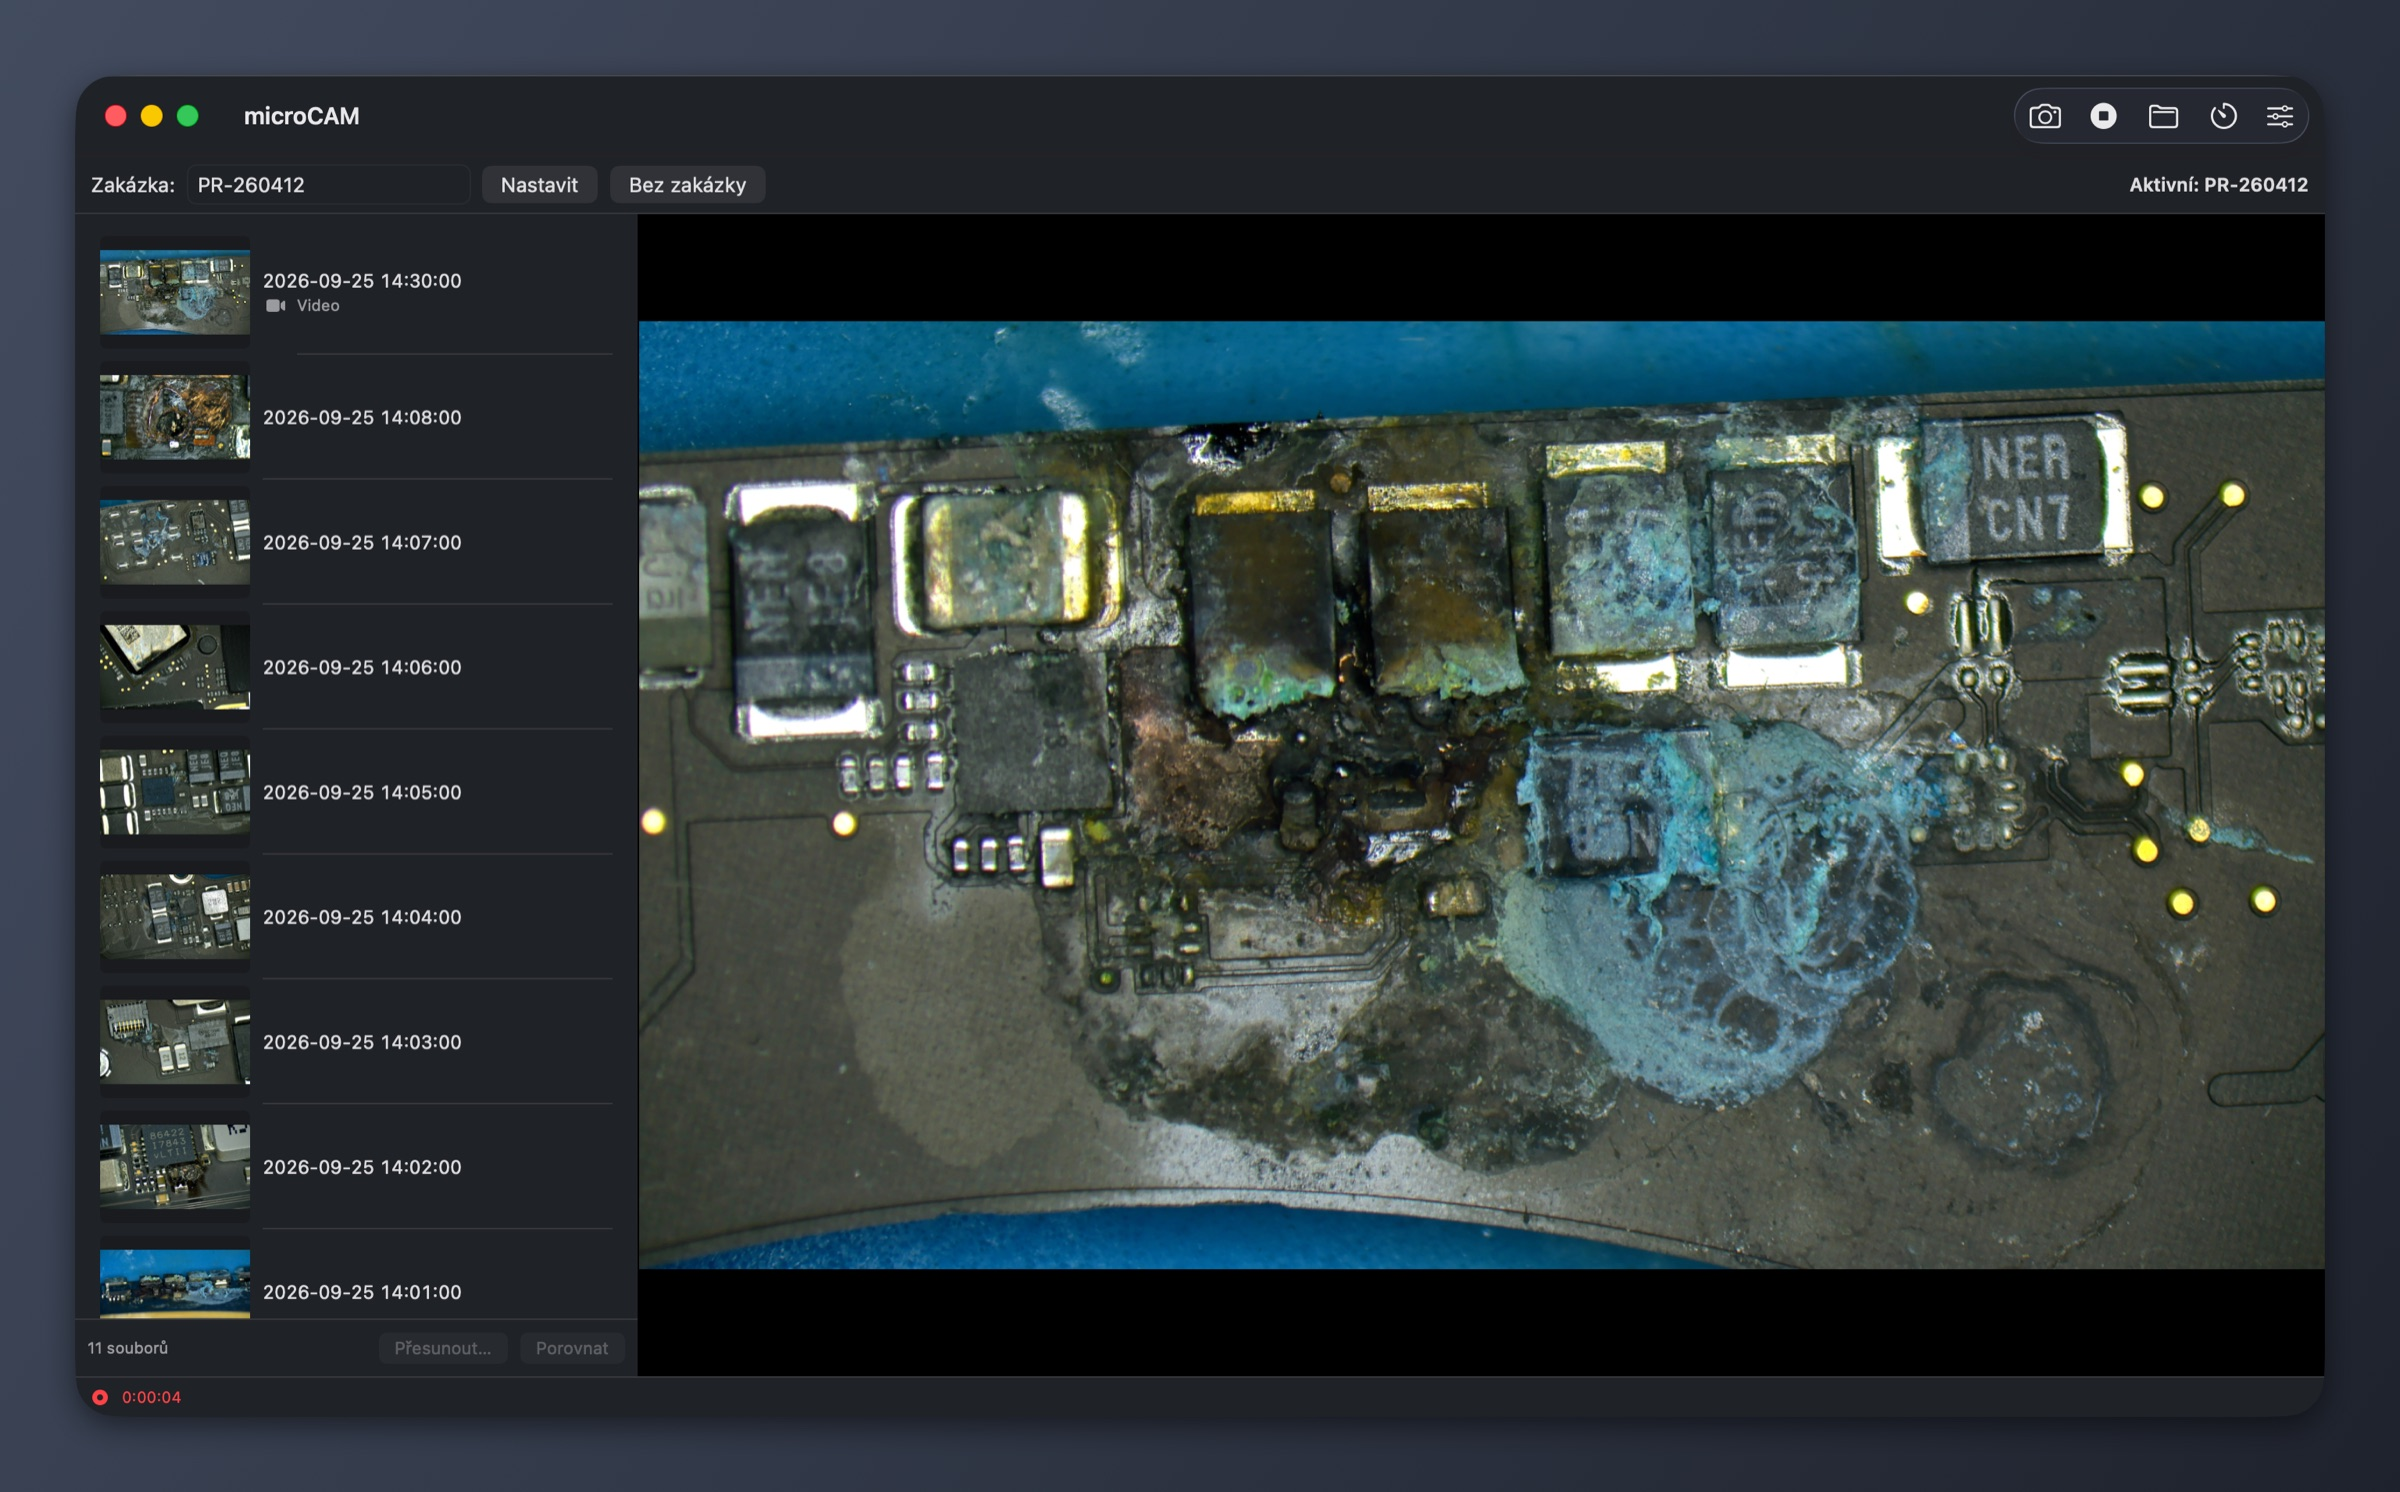
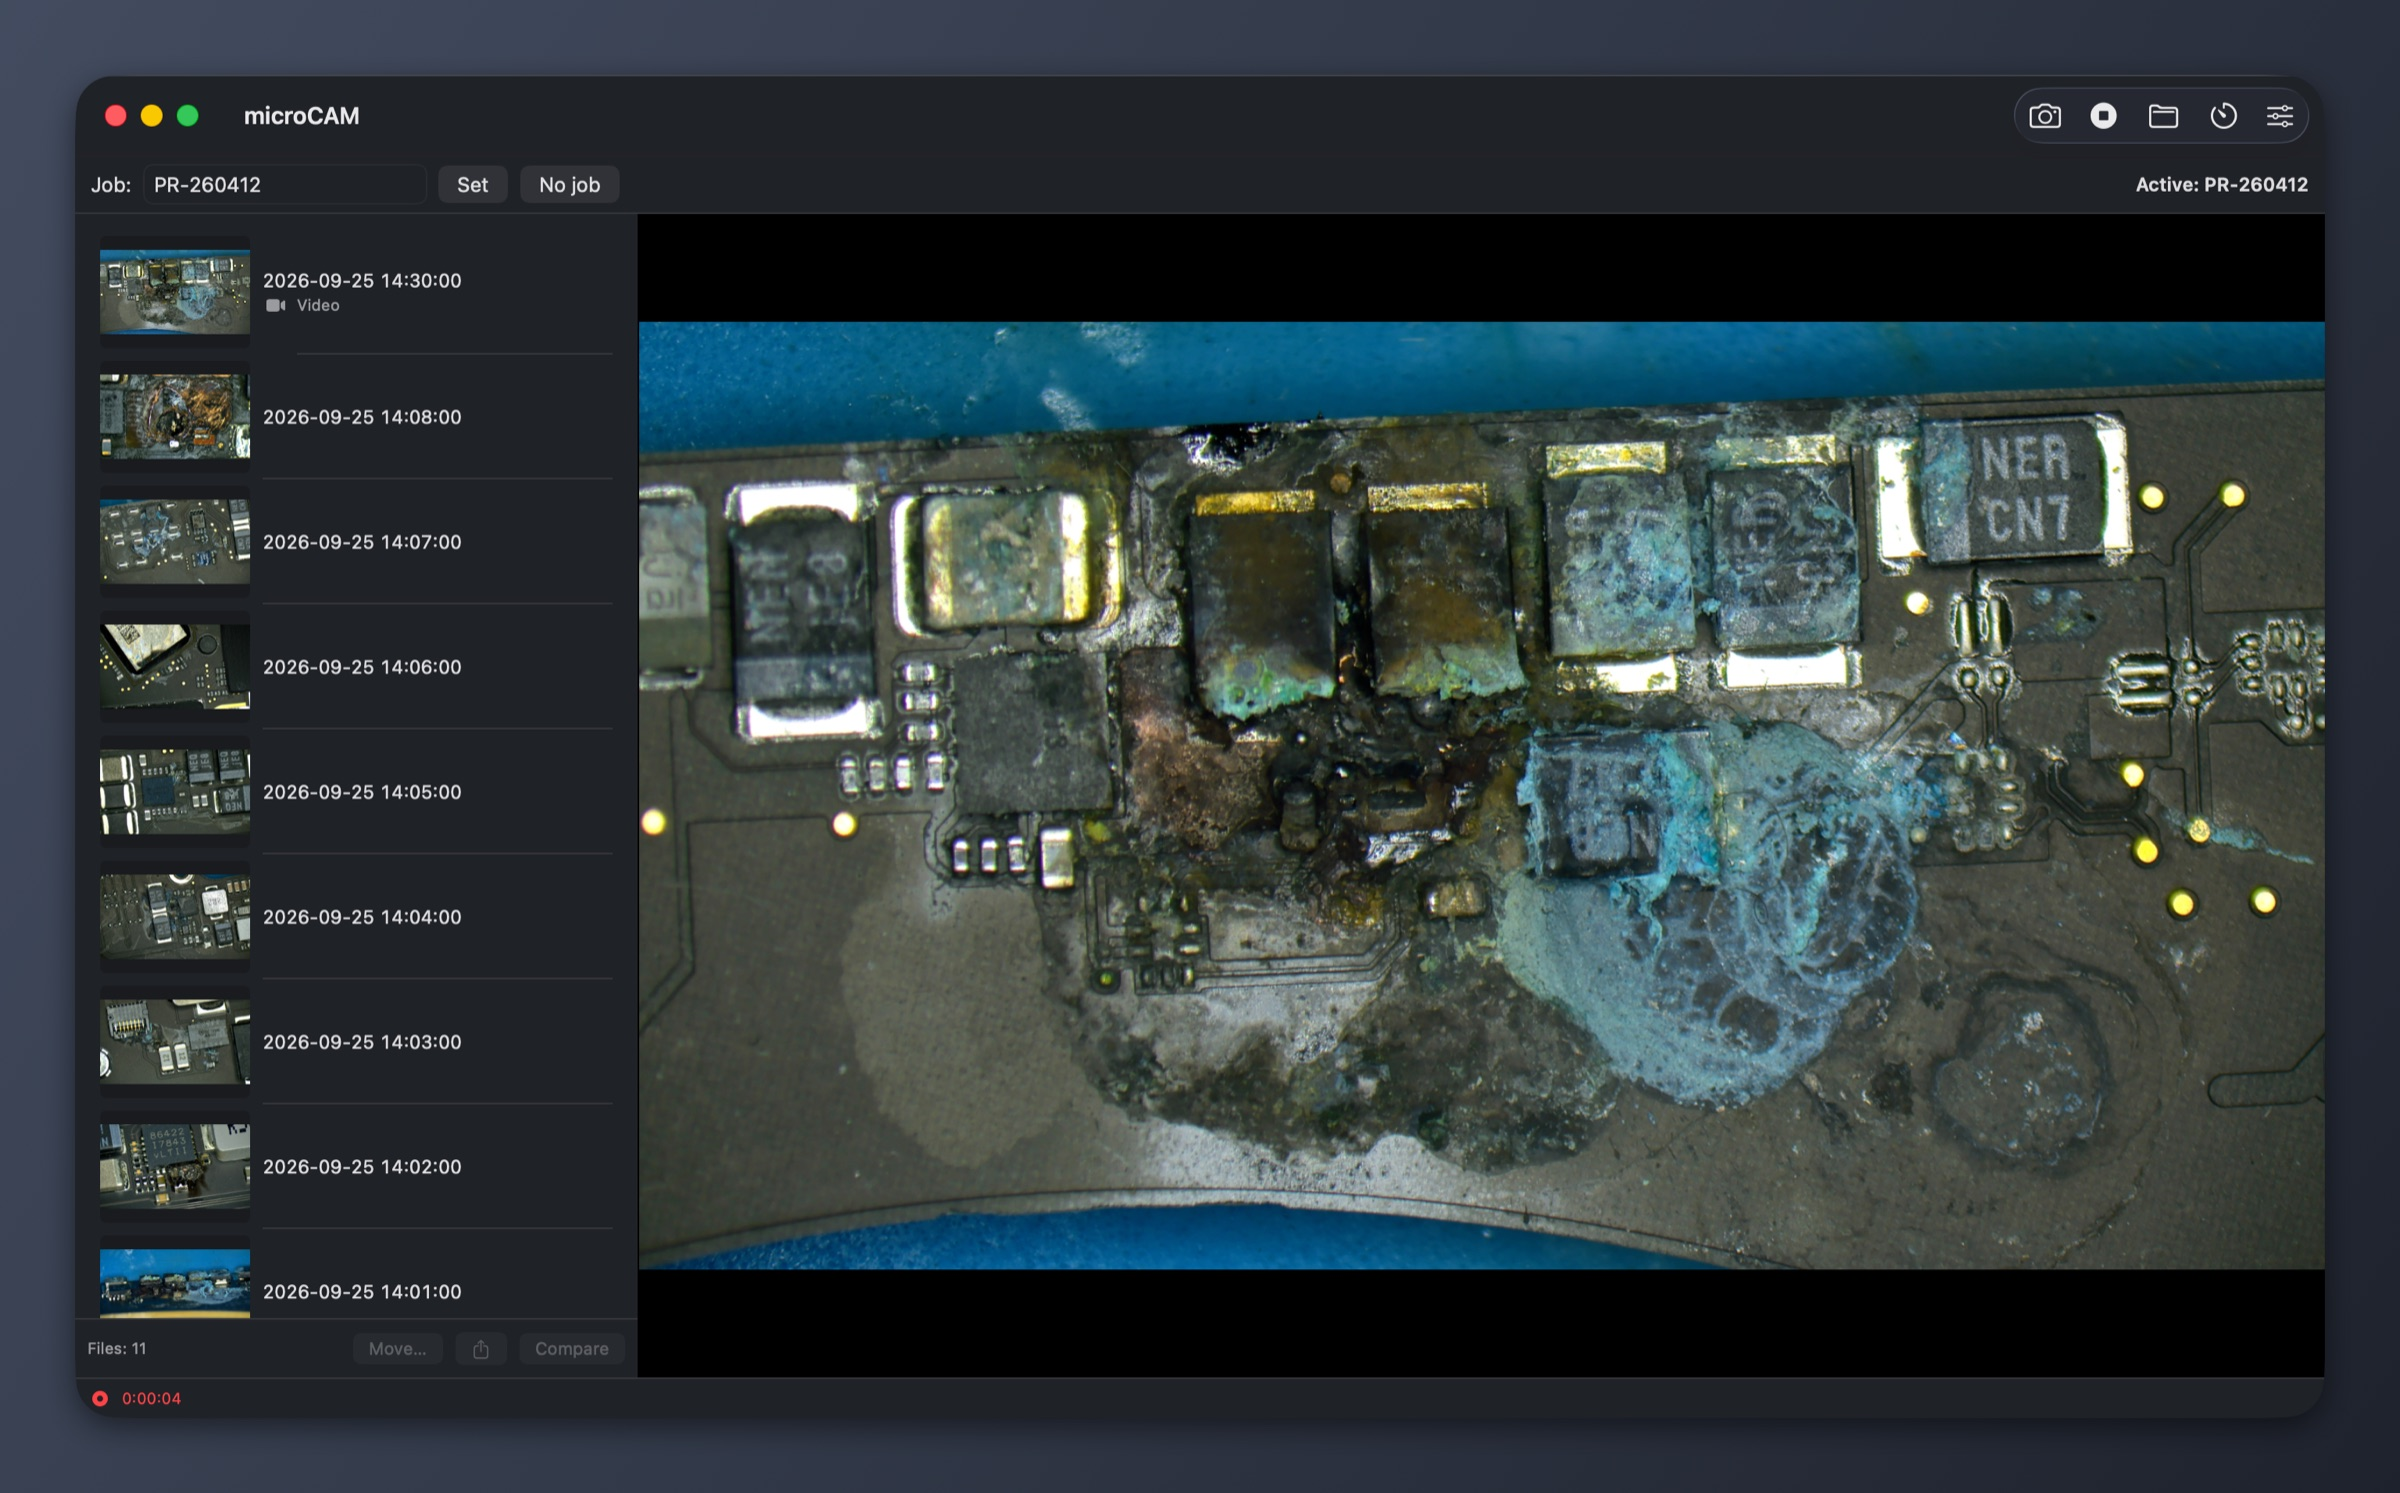
docs: English README with a localization guide, and AGENTS.md
The README uses the app's English names throughout (Settings tabs, stream
modes, folders), explains job (repair order) once, and gets a Contributing
section on how to add a language. The main screenshot is the same demo
scene, now in English. AGENTS.md states that every new UI text must exist
in every language, which LocalizationTests enforces.

diff --git a/README.md b/README.md
@@ -2,15 +2,19 @@
 
 **A small, native macOS app for the microscope camera at a repair bench.**
 Live preview, photos, hour-long recordings with narration, timelapse, and
-every capture filed under the repair order it belongs to.
+every capture filed under the job it belongs to. A *job* is a repair order:
+the ticket or order number you already use for the repair.
 
-![microCAM main window: live microscope image, repair order bar and the side panel with the order's photos and videos](docs/images/microcam-window.jpg)
+![microCAM main window: live microscope image, job bar and the side panel with the job's photos and videos](docs/images/microcam-window.jpg)
 
 microCAM works with any camera macOS can see: USB/UVC microscopes and HDMI
 cameras behind a capture card such as the Elgato Cam Link 4K. It was built
 to replace Plugable Digital Viewer on an Apple Silicon Mac. That app is
 Intel-only, left running all week it used ~20 % CPU, and its recordings
 started to stutter after a while.
+
+The app is in English and Czech and follows the system language; you can
+also pick one in *Settings → General → Language*.
 
 ## Highlights
 
@@ -21,18 +25,18 @@ started to stutter after a while.
 - **Recordings that don't stutter.** Hardware HEVC/H.264 encoding, narration
   from any microphone, no length limit. A crash-safe file is written while
   recording.
-- **Files sorted per repair order.** Type the order number (`PR-260412`) and
-  every photo and video lands in that order's folder. Misfiled shots can be
-  moved later without overwriting anything.
+- **Files sorted per job.** Type the job code (`PR-260412`) and every photo
+  and video lands in that job's folder. Misfiled shots can be moved later
+  without overwriting anything.
 - **Image adjustments per camera:** brightness, contrast, saturation, white
   balance, gamma and sharpening. They apply to the preview, photos and video
   alike, and cost nothing when switched off.
 - **Digital zoom, grid, timelapse and before/after compare** (side by side or
   with a slider).
 - **Live stream** to a browser or to microCAM on another Mac, with remote
-  photos and annotations for showing the customer their board.
+  photos and drawing for showing the customer their board.
 - **Integrations:** macOS share sheet, and an optional generic webhook for
-  sending captures to your own system (CRM, n8n, Make, Zapier…).
+  sending captures to your own system (your CRM, n8n, Make, Zapier…).
 - **No third-party dependencies.** Swift, SwiftUI/AppKit and Apple
   frameworks only.
 
@@ -54,16 +58,16 @@ microphone access again after an update.
 
 ## Using it
 
-On first launch microCAM asks where to store captures. It never picks a
+On first launch microCAM asks where to save captures. It never picks a
 folder on its own.
 
 | Key | Action |
 |---|---|
 | `Space` | take a photo |
-| `R` | start / stop recording |
-| `G` | toggle the grid |
+| `R` | start or stop recording |
+| `G` | show or hide the grid |
 | `0` | reset zoom (or double-click the image) |
-| scroll / pinch, drag | zoom the preview, pan |
+| scroll / pinch, drag | zoom the preview, move the image |
 | `⌘ ,` | settings |
 
 Shortcuts are ignored while you type in a text field, so a job code like
@@ -75,16 +79,20 @@ photos and videos are always full frame.
 ```
 <root>/PR-260412/PR-260412_2026-09-25_14-02-11.jpg
 <root>/PR-260412/PR-260412_2026-09-25_14-30-00.mov
-<root>/_Nezařazeno/bez-zakazky_2026-09-25_15-00-00.jpg      # no job set
+<root>/_Unsorted/no-job_2026-09-25_15-00-00.jpg       # no job set
 ```
 
 - Two captures in the same second get `_2`, `_3`. Nothing is ever
   overwritten.
 - **Settings → Storage** has two switches:
-  - Turn repair orders off, and everything goes straight into `<root>` as
+  - Turn off *Use jobs*, and everything goes straight into `<root>` as
     `microcam_…`.
-  - Turn on sorting by type, and each order gets `Fotky/`, `Videa/` and
-    `Časosběr/` subfolders.
+  - Turn on *Sort by type*, and each job gets `Photos/`, `Videos/` and
+    `Timelapse/` subfolders.
+- Folder names follow the app language (the Czech names are in
+  `Sources/MicroCAMCore/FolderLanguage.swift`). microCAM lists and moves
+  files named in any of its languages, so switching the language never
+  hides existing captures.
 - Recordings are written to `~/Library/Application Support/microCAM/Recording/`
   and moved into place when finished, so iCloud never uploads a half-written
   file. If a leftover file is found after a crash, microCAM opens that folder.
@@ -99,52 +107,94 @@ photos and videos are always full frame.
   | Field | Value |
   |---|---|
   | `file` | the JPEG / MOV |
-  | `job` | repair-order code from the file name (omitted without one) |
+  | `job` | job code from the file name (left out without one) |
   | `kind` | `photo`, `video` or `timelapse` |
   | `capturedAt` | ISO 8601 |
   | `idempotencyKey` | SHA-256 of the file, also sent as the `Idempotency-Key` header |
 
   An optional token is sent as `Authorization: Bearer …` and kept in the
-  Keychain. Any 2xx counts as success. Videos are sent only when "Posílat i
-  videa" is on; uploads stream from disk, so hour-long videos are fine.
+  Keychain. Any 2xx counts as success. Videos are sent only when *Send videos
+  too* is on; uploads stream from disk, so hour-long videos are fine.
 
 ## Live stream and viewer
 
-*Settings → Přenos*, off by default. It streams the live image to other
+*Settings → Stream*, off by default. It streams the live image to other
 devices on the shop network or tailnet. Open `http://<bench-ip>:8090/` in any
-browser, or switch microCAM on another Mac to **Prohlížeč** mode (*Settings →
-Režim appky*); it finds the bench via Bonjour.
+browser, or switch microCAM on another Mac to **Viewer** (*Settings → General
+→ Mode*); it finds the camera computer via Bonjour.
 
-- *Jen obraz*: just the picture, for a customer-facing screen.
-- *S ovládáním*: job code, full screen, drawing over the live image, and
-  **Vyfotit**. The photo is taken on the bench into the active job. Draw on
-  it and **Uložit k zakázce** saves an annotated copy (`…_2.jpg`); the
-  original stays untouched. Remote photos need the PIN set on the bench.
+- *Only watch*: just the picture, for a customer-facing screen.
+- *Watch, draw and take photos*: job code, full screen, drawing over the live
+  image, and **Take photo**. The photo is taken on the camera computer into
+  the active job. Draw on it and **Save to job** saves a copy with the drawing
+  (`…_2.jpg`); the original stays untouched. Remote photos need the *PIN for
+  photos* set on the camera computer.
 
+The page follows the browser's language (the viewer app passes its own).
 Only local-network and Tailscale clients are accepted. Nothing listens while
 the stream is off, and nothing is encoded while nobody watches.
 
 ## Development
 
 ```sh
-swift test                          # unit tests for MicroCAMCore
+swift test                          # unit tests (MicroCAMCore) and translation checks
 scripts/make-app.sh                 # app bundle
-scripts/make-screenshots.sh <dir>   # screenshots in demo mode (no camera needed)
-scripts/stream-smoke.sh <host> [port] [pin]   # check a running stream
-scripts/stream-page-shots.py <url> <dir> --pin <pin>   # stream page on phones/iPad/desktop (demo stream only)
+scripts/make-screenshots.sh <photos> [en|cs] [out-dir]   # screenshots in demo mode (no camera needed)
+scripts/stream-smoke.sh <host> [port] [pin]              # check a running stream
+scripts/stream-page-shots.py <url> <dir> --pin <pin> [--locale cs-CZ]   # stream page on phones/iPad/desktop (demo stream only)
 ```
 
 Demo mode without a camera can also serve the stream on 127.0.0.1: set
 `MICROCAM_DEMO_STREAM_PORT` (and optionally `MICROCAM_DEMO_STREAM_PIN`,
-`MICROCAM_DEMO_STREAM_MODE=imageOnly`). The smoke script adapts to *Jen obraz*
-and to a bench without a PIN. The page-shots script (Python Playwright with
-WebKit) checks that every control is on screen, at least 44 px and not
-overlapping, and saves a screenshot per device and state.
+`MICROCAM_DEMO_STREAM_MODE=imageOnly`). The smoke script adapts to *Only
+watch* and to a camera computer without a PIN. The page-shots script (Python
+Playwright with WebKit) checks that every control is on screen, at least
+44 px and not overlapping, and saves a screenshot per device and state.
 
 - `Sources/MicroCAMCore` holds the pure logic: naming, storage, moving,
   settings, the image pipeline and policies. It is fully unit-tested.
 - `Sources/MicroCAMApp` is the thin AVFoundation/SwiftUI layer.
+- `Resources/<lang>.lproj` holds the translations.
 - Design and plans live in `docs/superpowers/`. Measurements from the bench
   Mac go to `docs/acceptance.md`.
 - The README image lives in `docs/images/`. `docs/screenshots/` is
   git-ignored because it may contain photos of customer boards.
+
+## Contributing
+
+Bug reports and pull requests are welcome. Keep the app free of third-party
+dependencies, put logic that can be tested into `MicroCAMCore` with a test,
+and run `swift test` before you open a pull request.
+
+### Localization
+
+English is the source language: texts are written in English in the code,
+and every language has a folder in `Resources/`:
+
+- `Localizable.strings`: the app's texts. The key is the English text.
+- `InfoPlist.strings`: what macOS shows when it asks for camera, microphone
+  and local-network access.
+
+The stream page keeps its texts in the `STRINGS` dictionary in
+`Sources/MicroCAMApp/Streaming/StreamPage.swift`.
+
+Every new text must be in every language. `swift test` fails with the file,
+line and key when one is missing, empty or left in English by accident.
+
+To add a language (German, `de`, as an example):
+
+1. Copy `Resources/en.lproj` to `Resources/de.lproj` and translate the values
+   (the part after `=`). Keep placeholders such as `%@` and `%lld`.
+2. Add `<string>de</string>` to `CFBundleLocalizations` in
+   `Resources/Info.plist`.
+3. Add a `"de": { … }` entry with the same keys to `STRINGS` in
+   `StreamPage.swift`.
+4. Run `swift test`. If a text should stay the same as in English (a product
+   name, for example), add it to `sameAsEnglish` in
+   `Tests/LocalizationTests/LocalizationTests.swift`.
+5. Build with `scripts/make-app.sh` and check the screens with
+   `scripts/make-screenshots.sh <photos> de <out-dir>`.
+
+The language then appears in *Settings → General → Language* by itself.
+New folders get English names unless `FolderLanguage`
+(`Sources/MicroCAMCore/FolderLanguage.swift`) gets names for the language too.

diff --git a/AGENTS.md b/AGENTS.md
@@ -1,0 +1,19 @@
+# microCAM – notes for coding agents
+
+- Swift, SwiftPM, no third-party dependencies. `swift test` must pass;
+  `scripts/make-app.sh` builds the app bundle.
+- Pure logic goes into `Sources/MicroCAMCore` with unit tests.
+  `Sources/MicroCAMApp` is the thin AVFoundation/SwiftUI layer.
+- **Every new UI text must exist in English and Czech** (and in any other
+  language in `Resources/*.lproj`). Write it in English in the code, add the
+  key to every `Localizable.strings` (and to every language of `STRINGS` in
+  `StreamPage.swift` for the stream page). `LocalizationTests` fails when a
+  key is missing. No hard-coded Czech in Swift sources.
+- Texts are short and plain: say what a setting does, what a button does,
+  what went wrong and what to do. Czech uses "ty". English uses sentence
+  case. A job (repair order) is "Job" / "zakázka" everywhere.
+- Adding a language: see "Localization" in README.md.
+- Never commit names of the maintainer's machines, Tailscale addresses or
+  tailnet host names; `NoDeviceNamesTests` checks every tracked file.
+- Webhook field names and values (`kind=photo`, …) are an API: don't
+  translate or rename them.
